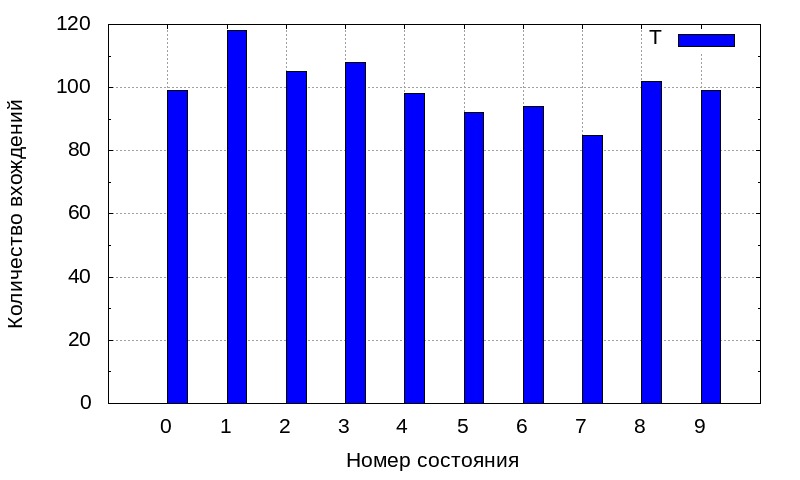
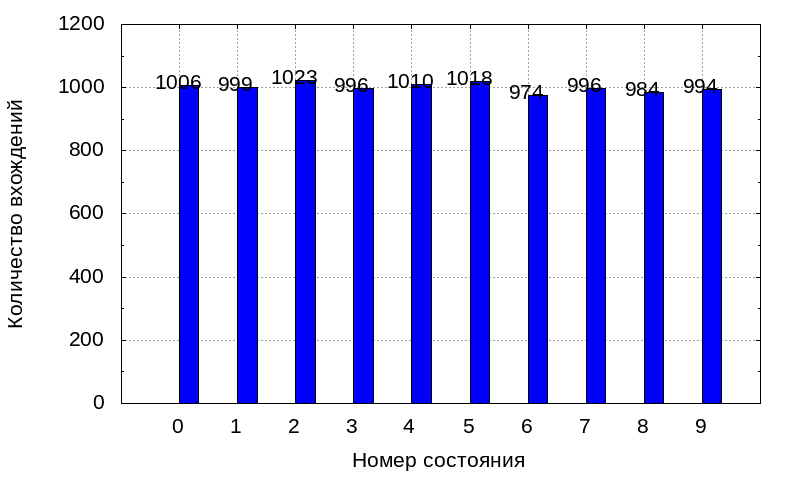
labels

diff --git a/MG/Lab-3/src/main.c b/MG/Lab-3/src/main.c
@@ -122,7 +122,7 @@ int main(int argc, char** argv) {
   int n = argv[1] ? atoi(argv[1]) : 5;
 
   /* Количество переходов в имитации */
-  int repeats = 1000;
+  int repeats = 10000;
   /* Текущий шаг в имитации */
   int step = 0;
   /* Состояние. Стартовое - 0 */
